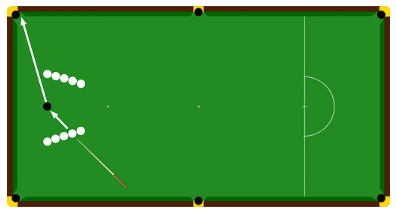
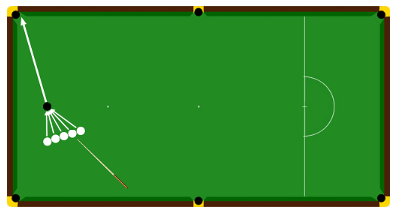
Exercises: new texts for 8-10, new safety exercise, drop "snooker facile"
- Ex. 8 (black): image reworked (5 aim arrows, single cue ball) and text
  rewritten; the black is re-spotted after each shot.
- Ex. 9 (direct potting): no scoring, line up pocket / red / cue ball.
- Ex. 10 (long reds): text matches the ghost-ball and zone diagram.
- "Sortir des situations de snooker faciles" removed; the last exercise is
  now "Coups de securite sur les rouges" (supplied image, cleaned text).

Changed region(s): [[0.0909, 0.4977, 0.2121, 0.6359], [0.0909, 0.3041, 0.2121, 0.4147]]

diff --git a/SnookerPlayer_Build6001/src/UI/ExerciseDialog.cpp b/SnookerPlayer_Build6001/src/UI/ExerciseDialog.cpp
@@ -775,24 +775,26 @@ namespace
                 "<p><b>MISE EN PLACE</b></p>"
                 "<ol style='margin:4px 0 12px; padding-left:20px; line-height:1.7'>"
                 "<li>Placez la noire sur son point.</li>"
-                "<li>Placez 5 billes de chaque cote de la noire, en deux rangees legerement "
-                "inclinees comme sur le schema : chacune marque une position de depart pour la "
-                "blanche, de la plus droite a la plus ouverte (pleine bille, 3/4, 1/2, 1/4).</li>"
+                "<li>Il n'y a qu'une seule blanche : les 5 positions du schema montrent ou la "
+                "poser, tour a tour, pour faire varier l'angle de visee, de la plus droite "
+                "(pleine bille) a la plus ouverte (1/4 de bille).</li>"
                 "</ol>"
 
                 "<p><b>DEROULEMENT</b></p>"
                 "<ol style='margin:4px 0 12px; padding-left:20px; line-height:1.7'>"
-                "<li>Commencez simple : une noire droite dans la poche de coin.</li>"
-                "<li>Jouez ensuite depuis chaque position en ouvrant l'angle peu a peu, et "
-                "empochez-en le plus possible a la suite, sans effet lateral au debut (juste "
-                "haut/bas).</li>"
-                "<li>Notez votre score total et la position ou la serie se casse.</li>"
+                "<li>Depuis la premiere position (la plus droite), empochez la noire dans la "
+                "poche du coin en haut a gauche.</li>"
+                "<li>Remettez la noire sur son point, puis recommencez depuis la position "
+                "suivante, en ouvrant l'angle peu a peu.</li>"
+                "<li>Faites les 5 positions, sans effet lateral au debut (juste haut/bas), et "
+                "notez le nombre de noires empochees ainsi que la position ou la serie se "
+                "casse.</li>"
                 "</ol>"
 
                 "<p><b>CONSEILS</b></p>"
                 "<ul style='margin:4px 0; padding-left:20px; line-height:1.7'>"
-                "<li>Si vous perdez la position, vous devrez utiliser la bande laterale, voire "
-                "faire le tour de la table pour vous replacer.</li>"
+                "<li>Remettez toujours la noire exactement sur son point : c'est ce qui rend "
+                "les 5 angles comparables d'une seance a l'autre.</li>"
                 "<li>Simple en apparence, redoutable pour la precision -- vous allez l'adorer.</li>"
                 "</ul>"
             },
@@ -818,14 +820,14 @@ namespace
 
                 "<p><b>DEROULEMENT (commun aux 3 niveaux)</b></p>"
                 "<ol style='margin:4px 0 12px; padding-left:20px; line-height:1.7'>"
-                "<li>Deplacez la blanche le long de la ligne de depart en empochant chaque rouge "
-                "dans une poche de coin.</li>"
+                "<li>Pour chaque rouge, alignez la poche de coin, la rouge et la blanche, comme "
+                "les traits du schema : la blanche se place sur la ligne de depart, dans le "
+                "prolongement de la ligne poche-rouge.</li>"
+                "<li>Empochez la rouge dans la poche de coin, puis passez a la suivante en "
+                "deplacant la blanche le long de la ligne de depart.</li>"
                 "<li>Essayez avec une blanche fixe (stun), puis avec un effet retro, un effet "
                 "suivi (top) ou une frappe au centre -- commencez par le centre.</li>"
-                "<li>Rouge empochee directement : 2 points. Rouge tombee dans une poche du "
-                "milieu apres avoir touche la bande : 1 point. Rouge qui touche d'abord la bande "
-                "laterale : 0 point.</li>"
-                "<li>Essayez d'empocher les 8 rouges de la ligne et notez votre score.</li>"
+                "<li>Essayez d'empocher les 8 rouges de la ligne.</li>"
                 "</ol>"
 
                 "<p><b>CONSEILS</b></p>"
@@ -845,19 +847,18 @@ namespace
                 "<p><b>MISE EN PLACE</b></p>"
                 "<ol style='margin:4px 0 12px; padding-left:20px; line-height:1.7'>"
                 "<li>Placez la rose sur son point.</li>"
-                "<li>Placez une rouge alignee avec la rose et une poche de coin, a environ "
-                "30 cm de la rose.</li>"
-                "<li>Placez la blanche sur cette meme ligne, a mi-chemin entre la ligne bleue "
-                "et la bande de fond.</li>"
+                "<li>Placez une rouge sur l'axe de la table, entre la rose et la bleue.</li>"
+                "<li>Placez la blanche sur le meme axe, entre la bleue et la ligne de "
+                "depart.</li>"
                 "</ol>"
 
                 "<p><b>DEROULEMENT</b></p>"
                 "<ol style='margin:4px 0 12px; padding-left:20px; line-height:1.7'>"
-                "<li>Frappez legerement en dessous du centre de la blanche.</li>"
-                "<li>Empochez la rouge dans la poche de fond, avec un leger effet retro.</li>"
-                "<li>Arretez la blanche a l'endroit ou se trouvait la rouge, pour vous retrouver "
-                "en position sur la rose.</li>"
-                "<li>Essayez des deux cotes de la table, 5 a 10 coups dans chaque poche.</li>"
+                "<li>Visez la position de contact (la blanche \"fantome\" du schema) pour "
+                "envoyer la rouge dans la poche du coin en haut a gauche.</li>"
+                "<li>Arretez la blanche dans la zone definie (le cercle du schema).</li>"
+                "<li>Jouez des deux cotes de la table (poches du haut et du bas), 5 a 10 coups "
+                "dans chaque poche.</li>"
                 "</ol>"
 
                 "<p><b>CONSEILS</b></p>"
@@ -870,43 +871,55 @@ namespace
                 "</ul>"
             },
             {
-                "11. Sortir des situations de snooker faciles",
-                "<p>Sortir d'un snooker facile devrait l'etre... mais ce n'est pas toujours le "
-                "cas. Cet exercice structure la reflexion a avoir avant de jouer un coup de "
-                "sortie, via la technique du \"miroir\".</p>"
+                "11. Coups de securite sur les rouges",
+                "<p>Les coups de securite sur les rouges sont un excellent exercice pour "
+                "perfectionner son toucher et reussir ces petits coups delicats. Imaginez-vous "
+                "en debut de manche : votre adversaire tente une rouge a longue distance, la "
+                "rate et la laisse juste en dessous du paquet. Vous avez plusieurs options, "
+                "mais l'ideal est de laisser la blanche dans la zone de depart, avec la "
+                "possibilite de laisser un snooker difficile. Cet exercice permet de jouer "
+                "differents coups depuis la meme position, en cherchant a proteger a la fois la "
+                "rouge et la blanche.</p>"
 
                 "<p><b>MISE EN PLACE</b></p>"
                 "<ol style='margin:4px 0 12px; padding-left:20px; line-height:1.7'>"
-                "<li>Choisissez 3 billes (par exemple bleue, rose et blanche).</li>"
-                "<li>Alignez la bille objet, la bille qui bloque et la blanche, a egale distance "
-                "de la bande, en ligne droite.</li>"
-                "<li>Placez la noire sur son point : elle sert de penalite si vous ratez la "
-                "bille objet.</li>"
-                "<li>Assurez-vous que la blanche reste facile a jouer.</li>"
+                "<li>L'exercice se joue une rouge a la fois.</li>"
+                "<li>Utilisez environ 6 positions de rouge, alignees parallelement a la bande, "
+                "comme sur le schema ci-dessus.</li>"
+                "<li>La premiere rouge est alignee avec la noire.</li>"
+                "<li>La blanche reste toujours pres de la noire, comme sur le schema.</li>"
+                "<li>Si cela vous aide, marquez les 6 positions sur la bande avec un trait de "
+                "craie.</li>"
                 "</ol>"
 
-                "<p><b>DEROULEMENT -- technique du miroir</b></p>"
+                "<p><b>DEROULEMENT</b></p>"
+                "<p>Sur le schema, apres le contact avec la rouge puis avec la bande, la "
+                "blanche peut suivre 4 trajectoires.</p>"
+                "<p>A chaque coup, depuis la rouge, vous travaillez 3 choses :</p>"
                 "<ol style='margin:4px 0 12px; padding-left:20px; line-height:1.7'>"
-                "<li>Tenez-vous debout et observez de face la position des 3 billes.</li>"
-                "<li>Reperez la distance entre la bille objet et la bande la plus proche.</li>"
-                "<li>Imaginez l'image miroir de la bille objet, comme si elle etait de l'autre "
-                "cote de la bande.</li>"
-                "<li>Toujours debout, imaginez une ligne droite entre la blanche et cette image "
-                "miroir.</li>"
-                "<li>Le point ou cette ligne coupe la bande est l'endroit a viser pour toucher "
-                "la bille objet.</li>"
+                "<li>Laisser la blanche derriere une couleur.</li>"
+                "<li>Laisser la blanche sur la bande de depart, ou le plus pres possible.</li>"
+                "<li>Ramener la rouge vers la rose et la noire, en cherchant a laisser un "
+                "snooker a l'adversaire.</li>"
                 "</ol>"
 
-                "<p><b>CONSEILS</b></p>"
+                "<p><b>VARIANTES</b></p>"
                 "<ul style='margin:4px 0; padding-left:20px; line-height:1.7'>"
-                "<li>La vitesse de frappe determine la vitesse de la bille objet apres contact, "
-                "et la position finale de la blanche en cas d'echec.</li>"
-                "<li>Une fois a l'aise, essayez de \"caresser\" la bille objet pour creer de la "
-                "distance entre les deux billes apres l'impact.</li>"
-                "<li>Variez : espacez davantage les billes, changez leur distance a la bande, "
-                "essayez une sortie plein fouet, ou par une autre bande.</li>"
-                "<li>Testez les effets retro/stun/suivi pour observer comment ils changent la "
-                "trajectoire de sortie.</li>"
+                "<li>Selon l'angle de la rouge par rapport aux couleurs de la ligne de depart, "
+                "vous aurez plusieurs choix. Jouez d'abord le coup le plus simple pour placer "
+                "les deux billes au bon endroit, le plus pres possible de la bande de depart.</li>"
+                "<li>Ensuite, essayez des effets lateraux, une blanche arretee (stun) ou un "
+                "effet retro pour creer un angle inhabituel et obtenir le meme resultat.</li>"
+                "<li>Observez ce que fait la blanche avec l'effet a gauche, a droite et leurs "
+                "combinaisons pour trouver le coup sur : il n'y a pas toujours un chemin "
+                "evident, et il faut parfois un petit detour pour laisser la rouge aussi bien "
+                "protegee que la blanche.</li>"
+                "</ul>"
+
+                "<p><b>SCORE</b></p>"
+                "<ul style='margin:4px 0; padding-left:20px; line-height:1.7'>"
+                "<li>Attribuez jusqu'a 3 points par coup, un pour chacun des 3 elements du "
+                "deroulement, et notez vos scores pour suivre vos progres.</li>"
                 "</ul>"
             },
         };
@@ -1058,7 +1071,7 @@ void ExerciseDialog::showExercise(int index)
         m_diagramLabel->setPixmap(drawLongRedsDiagram(520, 220));
         break;
     case 10:
-        m_diagramLabel->setPixmap(QPixmap(EXERCISE_11_IMAGE_PATH).scaled(
+        m_diagramLabel->setPixmap(QPixmap(EXERCISE_12_IMAGE_PATH).scaled(
             520, 220, Qt::KeepAspectRatio, Qt::SmoothTransformation));
         break;
     default:
